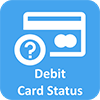
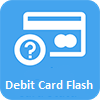
debit card flash

Changed region(s): [[0.06, 0.66, 0.93, 0.96]]

diff --git a/src/com/POSReport/view/frmDebitCardFlashReports.java b/src/com/POSReport/view/frmDebitCardFlashReports.java
@@ -77,6 +77,8 @@ public class frmDebitCardFlashReports extends javax.swing.JFrame
     private clsUtility objUtility;
     private StringBuilder sb = new StringBuilder();
     private DecimalFormat gDecimalFormat = clsGlobalVarClass.funGetGlobalDecimalFormatter();
+    private StringBuilder sqlBuilder;
+    private Map<String, String> hmDebitCardType;
 
     public frmDebitCardFlashReports()
     {
@@ -131,9 +133,27 @@ public class frmDebitCardFlashReports extends javax.swing.JFrame
 	    while (rsCustTypeData.next())
 	    {
 		hmCustomerType.put(rsCustTypeData.getString(2), rsCustTypeData.getString(1));
+
 	    }
 	    customerCode = "All";
 	    rsCustTypeData.close();
+
+	    sqlBuilder = new StringBuilder();
+	    hmDebitCardType = new HashMap<String, String>();
+
+	    sqlBuilder.setLength(0);
+	    sqlBuilder.append("select strCardTypeCode,strCardName,strCustomerCompulsory "
+		    + "from tbldebitcardtype where strClientCode='" + clsGlobalVarClass.gClientCode + "'");
+	    ResultSet rsFillComboBox = clsGlobalVarClass.dbMysql.executeResultSet(sqlBuilder.toString());
+	    cmbCardType.addItem("All");
+	    hmDebitCardType.put("All", "All");
+	    while (rsFillComboBox.next())
+	    {
+		hmDebitCardType.put(rsFillComboBox.getString(2), rsFillComboBox.getString(1));
+		cmbCardType.addItem(rsFillComboBox.getString(2));
+	    }
+	    rsFillComboBox.close();
+
 	    //funFillCustTypeCombo();
 	    //funCustomerWiseFlashReport();
 	    funDebitCardConsumptionReport();
@@ -253,10 +273,19 @@ public class frmDebitCardFlashReports extends javax.swing.JFrame
              * }
              rsDebitCardDtl.close();
 	     */
+	    String cardType = cmbCardType.getSelectedItem().toString();
+	    String cardTypeCode = hmDebitCardType.get(cardType);
+
 	    sql = "select a.strCardNo,ifnull(sum(b.dblRechargeAmount),0.00) "
 		    + " from tbldebitcardmaster a left outer join tbldebitcardrecharge b on a.strCardString=b.strCardString "
-		    + " where date(b.dteDateCreated) between '" + fromDate + "' and '" + toDate + "' and b.strTransferBalance='N' "
-		    + " group by a.strCardNo";
+		    + " where date(b.dteDateCreated) between '" + fromDate + "' and '" + toDate + "' "
+		    + " and b.strTransferBalance='N' ";
+	    if (!cardType.equalsIgnoreCase("All"))
+	    {
+		sql = sql + " and a.strCardTypeCode='" + cardTypeCode + "' ";
+	    }
+	    sql = sql + " group by a.strCardNo";
+
 	    ResultSet rsDebitCardRechargeDtl = clsGlobalVarClass.dbMysql.executeResultSet(sql);
 	    while (rsDebitCardRechargeDtl.next())
 	    {
@@ -281,8 +310,13 @@ public class frmDebitCardFlashReports extends javax.swing.JFrame
 
 	    sql = "select a.strCardNo,ifnull(sum(b.dblRefundAmt),0.00) "
 		    + " from tbldebitcardmaster a left outer join tbldebitcardrefundamt b on a.strCardString=b.strCardString "
-		    + " where date(b.dteDateCreated) between '" + fromDate + "' and '" + toDate + "' "
-		    + " group by a.strCardNo";
+		    + " where date(b.dteDateCreated) between '" + fromDate + "' and '" + toDate + "' ";
+	    if (!cardType.equalsIgnoreCase("All"))
+	    {
+		sql = sql + " and a.strCardTypeCode='" + cardTypeCode + "' ";
+	    }
+	    sql = sql + " group by a.strCardNo";
+
 	    ResultSet rsDebitCardRefundDtl = clsGlobalVarClass.dbMysql.executeResultSet(sql);
 	    while (rsDebitCardRefundDtl.next())
 	    {
@@ -422,10 +456,14 @@ public class frmDebitCardFlashReports extends javax.swing.JFrame
 	    String fromDate = funGetCalanderDate("From");
 	    String toDate = funGetCalanderDate("To");
 
+	    String cardType = cmbCardType.getSelectedItem().toString();
+	    String cardTypeCode = hmDebitCardType.get(cardType);
+
 	    double totalBalance = 0;
 	    sbSql.append(" select c.strPosName,b.strBillNo,a.strCardNo,ifnull(d.strCustomerName,''), "
 		    + " date(b.dteBillDate),time(b.dteBillDate),b.dblTransactionAmt "
-		    + " from tbldebitcardmaster a left outer join tblcustomermaster d on a.strCustomerCode=d.strCustomerCode, "
+		    + " from tbldebitcardmaster a "
+		    + " left outer join tblcustomermaster d on a.strCustomerCode=d.strCustomerCode, "
 		    + " tbldebitcardbilldetails b,tblposmaster c "
 		    + " where a.strCardNo=b.strCardNo and b.strPOSCode=c.strPosCode "
 		    + " and date(b.dteBillDate) between '" + fromDate + "' and '" + toDate + "' ");
@@ -434,6 +472,11 @@ public class frmDebitCardFlashReports extends javax.swing.JFrame
 	    {
 		sbSql.append(" and b.strPOSCode='" + objUtility.funGetPOSCodeFromPOSName(cmbPosCode.getSelectedItem().toString().trim()) + "' ");
 	    }
+	    if (!cardType.equalsIgnoreCase("All"))
+	    {
+		sbSql.append(" and a.strCardTypeCode='" + cardTypeCode + "' ");
+	    }
+
 	    sbSql.append(" group by d.strCustomerName,b.strBillNo ");
 
 	    System.out.println(sbSql.toString());
@@ -510,11 +553,21 @@ public class frmDebitCardFlashReports extends javax.swing.JFrame
 	    String fromDate = funGetCalanderDate("From");
 	    String toDate = funGetCalanderDate("To");
 	    double totalBalance = 0;
-	    sbSql.append(" select strCardNo,date(dtePOSDate),strUserCreated,sum(dblCardAmt) "
-		    + " from tbldebitcardrevenue "
-		    + " where date(dtePOSDate) between '" + fromDate + "' and '" + toDate + "' "
-		    + " group by strCardNo "
+
+	    String cardType = cmbCardType.getSelectedItem().toString();
+	    String cardTypeCode = hmDebitCardType.get(cardType);
+
+	    sbSql.append(" select a.strCardNo,date(a.dtePOSDate),a.strUserCreated,sum(a.dblCardAmt)  "
+		    + "from tbldebitcardrevenue a,tbldebitcardmaster b "
+		    + "where a.strCardNo=b.strCardNo "
+		    + "and  date(dtePOSDate) between '" + fromDate + "' and '" + toDate + "' ");
+	    if (!cardType.equalsIgnoreCase("All"))
+	    {
+		sbSql.append(" and b.strCardTypeCode='" + cardTypeCode + "' ");
+	    }
+	    sbSql.append(" group by strCardNo "
 		    + " order by date(dtePOSDate)");
+
 	    System.out.println(sbSql.toString());
 	    ResultSet rsUnusedCardBal = clsGlobalVarClass.dbMysql.executeResultSet(sbSql.toString());
 	    while (rsUnusedCardBal.next())
@@ -590,6 +643,10 @@ public class frmDebitCardFlashReports extends javax.swing.JFrame
 	    String fromDate = funGetCalanderDate("From");
 	    String toDate = funGetCalanderDate("To");
 	    double totalRechargeAmt = 0;
+
+	    String cardType = cmbCardType.getSelectedItem().toString();
+	    String cardTypeCode = hmDebitCardType.get(cardType);
+
 	    sbSql.append("select d.strPosName,c.intRechargeNo,a.strCardNo,ifnull(b.strCustomerName,'')"
 		    + " ,date(c.dteDateCreated),time(c.dteDateCreated),c.dblRechargeAmount"
 		    + " ,ifnull(e.strUserCode,'NA'),ifnull(e.strUserName,'NA') "
@@ -603,6 +660,11 @@ public class frmDebitCardFlashReports extends javax.swing.JFrame
 	    {
 		sbSql.append(" and c.strPOSCode='" + objUtility.funGetPOSCodeFromPOSName(cmbPosCode.getSelectedItem().toString().trim()) + "' ");
 	    }
+	    if (!cardType.equalsIgnoreCase("All"))
+	    {
+		sbSql.append(" and a.strCardTypeCode='" + cardTypeCode + "' ");
+	    }
+
 	    System.out.println(sbSql.toString());
 	    ResultSet rsRechargeDtl = clsGlobalVarClass.dbMysql.executeResultSet(sbSql.toString());
 	    while (rsRechargeDtl.next())
@@ -683,6 +745,10 @@ public class frmDebitCardFlashReports extends javax.swing.JFrame
 	    tblDebitCardFlash.setModel(dm);
 
 	    double totalRefundAmt = 0;
+
+	    String cardType = cmbCardType.getSelectedItem().toString();
+	    String cardTypeCode = hmDebitCardType.get(cardType);
+
 	    sbSql.append("select d.strPosName,c.strRefundNo,a.strCardNo,ifnull(b.strCustomerName,'') "
 		    + ",date(c.dteDateCreated),time(c.dteDateCreated),c.dblRefundAmt "
 		    + " from tbldebitcardmaster a left outer join tblcustomermaster b on a.strCustomerCode=b.strCustomerCode "
@@ -694,6 +760,11 @@ public class frmDebitCardFlashReports extends javax.swing.JFrame
 		sbSql.append(" and c.strPOSCode='" + objUtility.funGetPOSCodeFromPOSName(cmbPosCode.getSelectedItem().toString().trim()) + "' ");
 	    }
 	    sbSql.append(" where date(c.dteDateCreated) between '" + fromDate + "' and '" + toDate + "' ");
+
+	    if (!cardType.equalsIgnoreCase("All"))
+	    {
+		sbSql.append(" and a.strCardTypeCode='" + cardTypeCode + "' ");
+	    }
 
 	    System.out.println(sbSql.toString());
 	    ResultSet rsRefundDtl = clsGlobalVarClass.dbMysql.executeResultSet(sbSql.toString());
@@ -1493,6 +1564,8 @@ public class frmDebitCardFlashReports extends javax.swing.JFrame
         lblToDate = new javax.swing.JLabel();
         cmbExportType = new javax.swing.JComboBox();
         btnUserWiseRechargeDtl = new javax.swing.JButton();
+        lblPOSName1 = new javax.swing.JLabel();
+        cmbCardType = new javax.swing.JComboBox();
 
         setDefaultCloseOperation(javax.swing.WindowConstants.DISPOSE_ON_CLOSE);
         setExtendedState(MAXIMIZED_BOTH);
@@ -1720,7 +1793,7 @@ public class frmDebitCardFlashReports extends javax.swing.JFrame
 
         cmbPosCode.setToolTipText("Select POS");
         pnlCardDetails.add(cmbPosCode);
-        cmbPosCode.setBounds(80, 0, 190, 30);
+        cmbPosCode.setBounds(70, 0, 190, 30);
 
         lblPOSName.setFont(new java.awt.Font("Tahoma", 0, 12)); // NOI18N
         lblPOSName.setText("POS Name :");
@@ -1736,16 +1809,16 @@ public class frmDebitCardFlashReports extends javax.swing.JFrame
             }
         });
         pnlCardDetails.add(txtCustCode);
-        txtCustCode.setBounds(80, 40, 190, 30);
+        txtCustCode.setBounds(350, 40, 190, 30);
 
         lblCustName.setFont(new java.awt.Font("Tahoma", 0, 12)); // NOI18N
         lblCustName.setText("Cust Name :");
         pnlCardDetails.add(lblCustName);
-        lblCustName.setBounds(0, 40, 70, 30);
+        lblCustName.setBounds(270, 40, 70, 30);
 
         btnUnusedCardBal.setBackground(new java.awt.Color(255, 255, 255));
         btnUnusedCardBal.setFont(new java.awt.Font("Tahoma", 1, 10)); // NOI18N
-        btnUnusedCardBal.setText("<html>Unused<br> Card<br> Balance</html>");
+        btnUnusedCardBal.setIcon(new javax.swing.ImageIcon(getClass().getResource("/com/POSReport/images/imgUnusedBalance.png"))); // NOI18N
         btnUnusedCardBal.setToolTipText("View Report");
         btnUnusedCardBal.setHorizontalTextPosition(javax.swing.SwingConstants.CENTER);
         btnUnusedCardBal.addMouseListener(new java.awt.event.MouseAdapter()
@@ -1810,7 +1883,7 @@ public class frmDebitCardFlashReports extends javax.swing.JFrame
         cmbExportType.setFont(new java.awt.Font("Tahoma", 1, 11)); // NOI18N
         cmbExportType.setModel(new javax.swing.DefaultComboBoxModel(new String[] { "Excel", "PDF" }));
         pnlCardDetails.add(cmbExportType);
-        cmbExportType.setBounds(480, 40, 130, 30);
+        cmbExportType.setBounds(550, 40, 60, 30);
 
         btnUserWiseRechargeDtl.setFont(new java.awt.Font("Tahoma", 1, 10)); // NOI18N
         btnUserWiseRechargeDtl.setForeground(new java.awt.Color(255, 255, 255));
@@ -1833,6 +1906,15 @@ public class frmDebitCardFlashReports extends javax.swing.JFrame
         });
         pnlCardDetails.add(btnUserWiseRechargeDtl);
         btnUserWiseRechargeDtl.setBounds(450, 510, 80, 80);
+
+        lblPOSName1.setFont(new java.awt.Font("Tahoma", 0, 12)); // NOI18N
+        lblPOSName1.setText("Card Type :");
+        pnlCardDetails.add(lblPOSName1);
+        lblPOSName1.setBounds(0, 40, 70, 30);
+
+        cmbCardType.setToolTipText("Select POS");
+        pnlCardDetails.add(cmbCardType);
+        cmbCardType.setBounds(70, 40, 190, 30);
 
         pnlData.addTab("Data", pnlCardDetails);
 
@@ -1996,6 +2078,7 @@ public class frmDebitCardFlashReports extends javax.swing.JFrame
     private javax.swing.JButton btnRefundDetails1;
     private javax.swing.JButton btnUnusedCardBal;
     private javax.swing.JButton btnUserWiseRechargeDtl;
+    private javax.swing.JComboBox cmbCardType;
     private javax.swing.JComboBox cmbExportType;
     private javax.swing.JComboBox cmbPosCode;
     private com.toedter.calendar.JDateChooser dteFromDate;
@@ -2009,6 +2092,7 @@ public class frmDebitCardFlashReports extends javax.swing.JFrame
     private javax.swing.JLabel lblHOSign;
     private javax.swing.JLabel lblModuleName;
     private javax.swing.JLabel lblPOSName;
+    private javax.swing.JLabel lblPOSName1;
     private javax.swing.JLabel lblPosName;
     private javax.swing.JLabel lblProductName;
     private javax.swing.JLabel lblToDate;
@@ -2126,6 +2210,10 @@ public class frmDebitCardFlashReports extends javax.swing.JFrame
 	    String fromDate = funGetCalanderDate("From");
 	    String toDate = funGetCalanderDate("To");
 	    double totalRechargeAmt = 0;
+
+	    String cardType = cmbCardType.getSelectedItem().toString();
+	    String cardTypeCode = hmDebitCardType.get(cardType);
+
 	    sbSql.append("select d.strPosName,ifnull(e.strUserName,'NA'),g.strSettelmentDesc, sum(f.dblRechargeAmt) "
 		    + "from tbldebitcardmaster a "
 		    + "left outer join tblcustomermaster b on a.strCustomerCode=b.strCustomerCode  "
@@ -2139,6 +2227,10 @@ public class frmDebitCardFlashReports extends javax.swing.JFrame
 	    if (!cmbPosCode.getSelectedItem().toString().equals("All"))
 	    {
 		sbSql.append(" and c.strPOSCode='" + objUtility.funGetPOSCodeFromPOSName(cmbPosCode.getSelectedItem().toString().trim()) + "' ");
+	    }
+	    if (!cardType.equalsIgnoreCase("All"))
+	    {
+		sbSql.append(" and a.strCardTypeCode='" + cardTypeCode + "' ");
 	    }
 	    sbSql.append("group by d.strPosCode,e.strUserName,g.strSettelmentDesc "
 		    + "order by d.strPosCode,e.strUserName,g.strSettelmentDesc");
